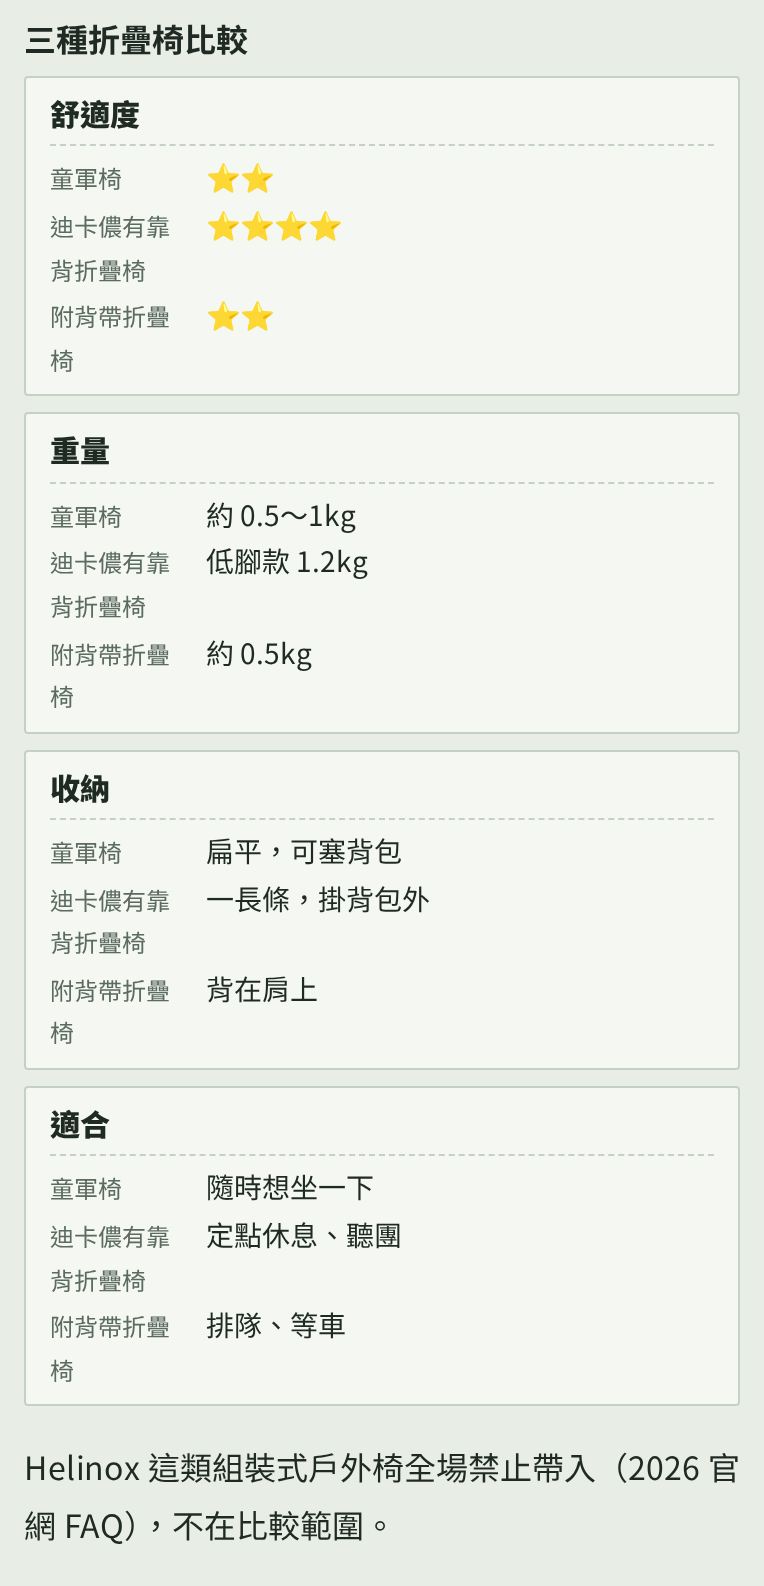
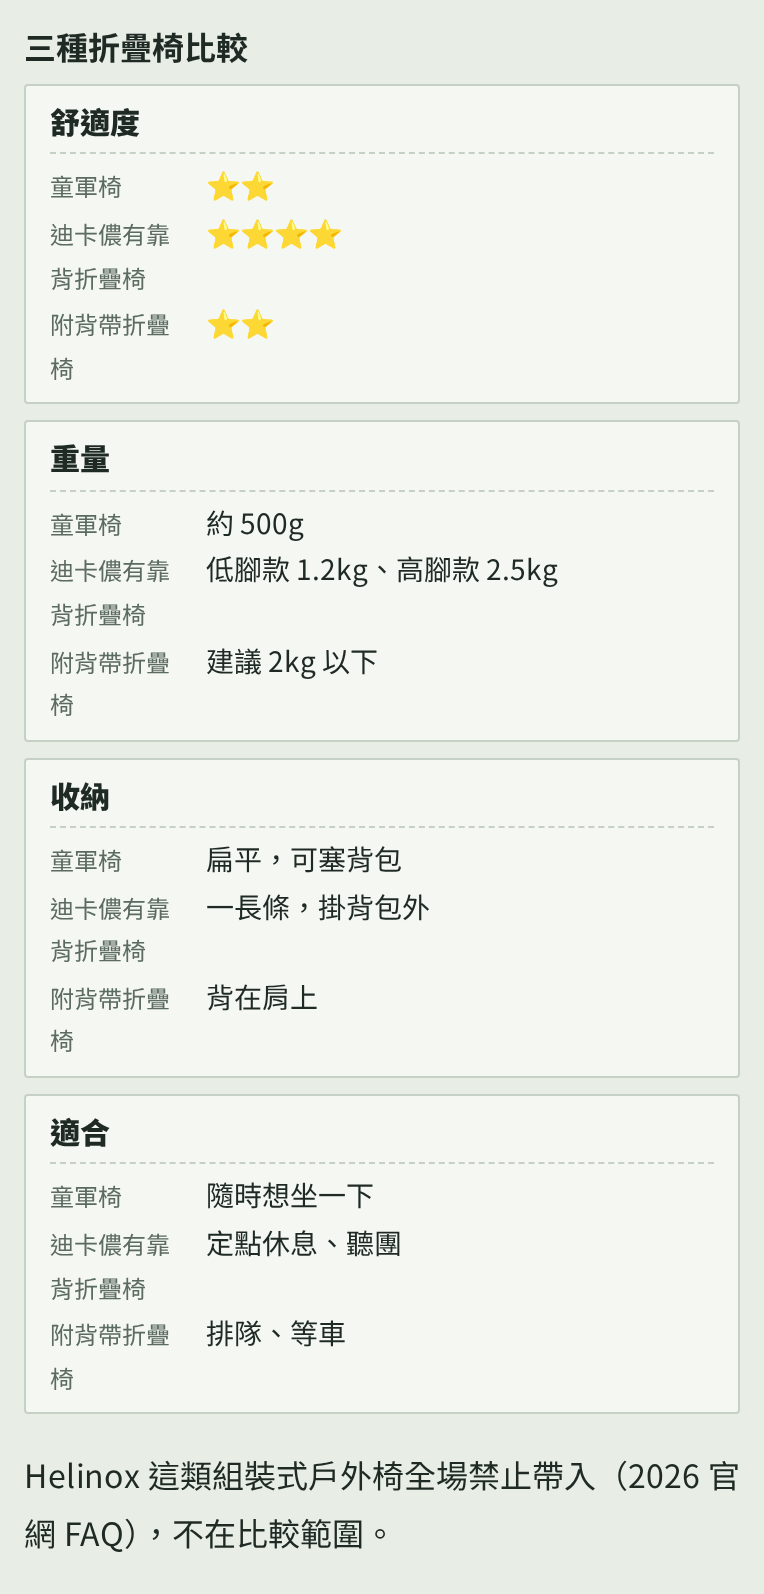
依 Gina 最後一輪回覆更新第 2 批提案，待確認清空

diff --git a/docs/frf-rewrite/beginner-faq-conflicts.md b/docs/frf-rewrite/beginner-faq-conflicts.md
@@ -7,6 +7,7 @@
 - 引用原文時，原文的破折號以「〔破折號〕」標示，提案文字本身不用破折號。
 - **2026-10-21 依 Gina 在 PR #21 的回覆更新：** 椅子佔位改成「官網規定＋實際情況」重新評估（第 1.3 節）；充電降為小差異（第 4.1 節）；電子錢包 Gina 確認場內不分海內外都能用，原本的衝突拿掉。Gina 的現場經驗註記為「現場經驗（Gina 2026）」。
 - **2026-10-21 第三輪（Gina 回覆＋已查證）：** 椅子篇官網禁用區的日文名稱統一寫成中文「兒童森林」（第 1.3 節）；迪卡儂低腳款查證是 1.2kg（第 1.1 節）。隨身背包篇補了 Heroclip 一段，檢查表改成 2.8。
+- **2026-10-21 最後一輪回覆：** 迪卡儂高腳款查證是 Quechua 折疊露營扶手椅 2.5kg（第 1.1 節）。椅子篇的童軍椅約 500g、附背帶折疊椅建議 2kg 以下、椅子盡量託運，#00 沒有對應的說法，沒有新衝突。
 - **2026-10-21 第二輪回覆：** Gina 補充可以留椅子的區域（GREEN STAGE 後方草地、WHITE STAGE 後方；RED MARQUEE 整區不能留），#00「綠舞台後方可長時間佔位」改評為**地點大致一致**（第 1.3 節）。熱水、瓶罐（寶特瓶可以帶，玻璃瓶罐、鋁罐不能）#00 沒有提到，沒有衝突。
 
 ## 1. 椅子
@@ -15,7 +16,7 @@
 
 - **原句：** 「**強烈建議。**苗場地形複雜、走一天腿很累，能坐下休息差很多。選椅子重量死守 **1.5kg 以下**〔破折號〕超過這個數字，第二天你就會想把它丟在路邊。」
 - **衝突點：**
-  - 椅子篇提案把 1.5kg 改成建議值；有靠背的迪卡儂低腳款（Quechua MH100）查證是 1.2kg（2026 Decathlon 官網），有靠背款比較重，但不一定超過 1.5kg；「死守」「丟在路邊」是說教語氣，也用了破折號。
+  - 椅子篇提案把 1.5kg 改成建議值；有靠背的迪卡儂低腳款（Quechua MH100）查證是 1.2kg（2026 Decathlon 官網），高腳款（Quechua 折疊露營扶手椅）是 2.5kg（2026 迪卡儂台灣官網），有靠背款比較重，低腳款沒有超過 1.5kg，高腳款超過；「死守」「丟在路邊」是說教語氣，也用了破折號。
   - 「強烈建議」跟椅子篇的開場不一致：椅子篇提案寫成兩種看法都有，決定要帶再挑。
   - 沒提到官網規定，讀者只看 #00 會以為什麼椅子都能帶。
 - **建議：** 改成「可以帶折疊椅，組裝式戶外椅全場禁止帶入；建議 1.5kg 以下，有靠背款比較重」，連到椅子篇。
